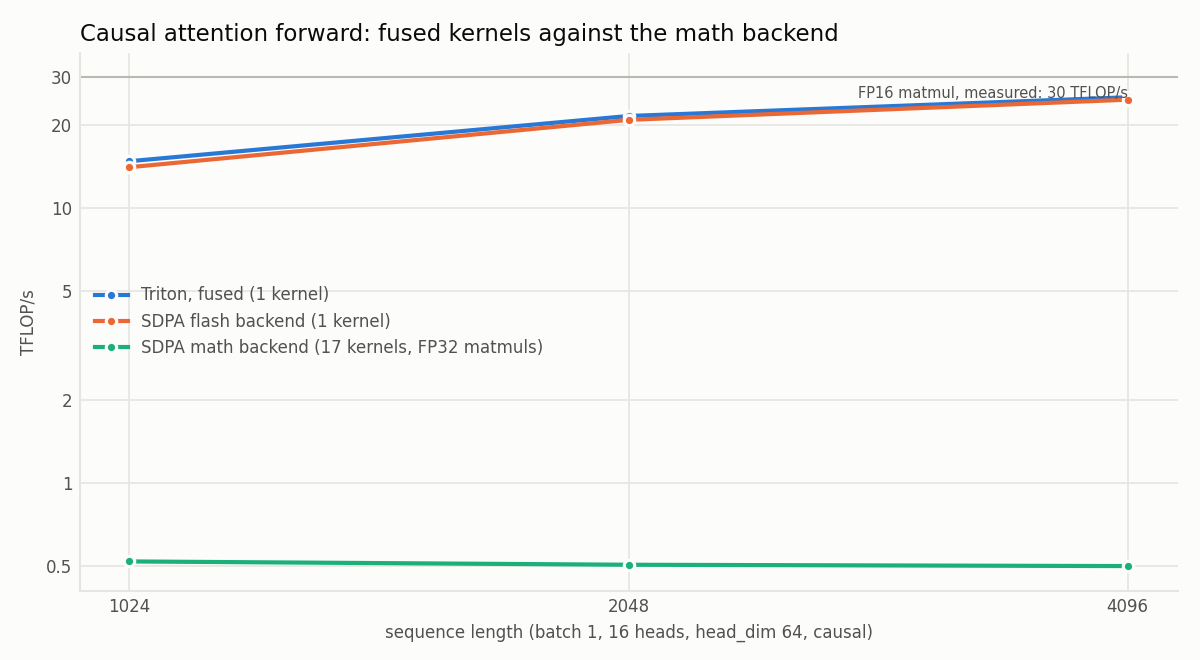
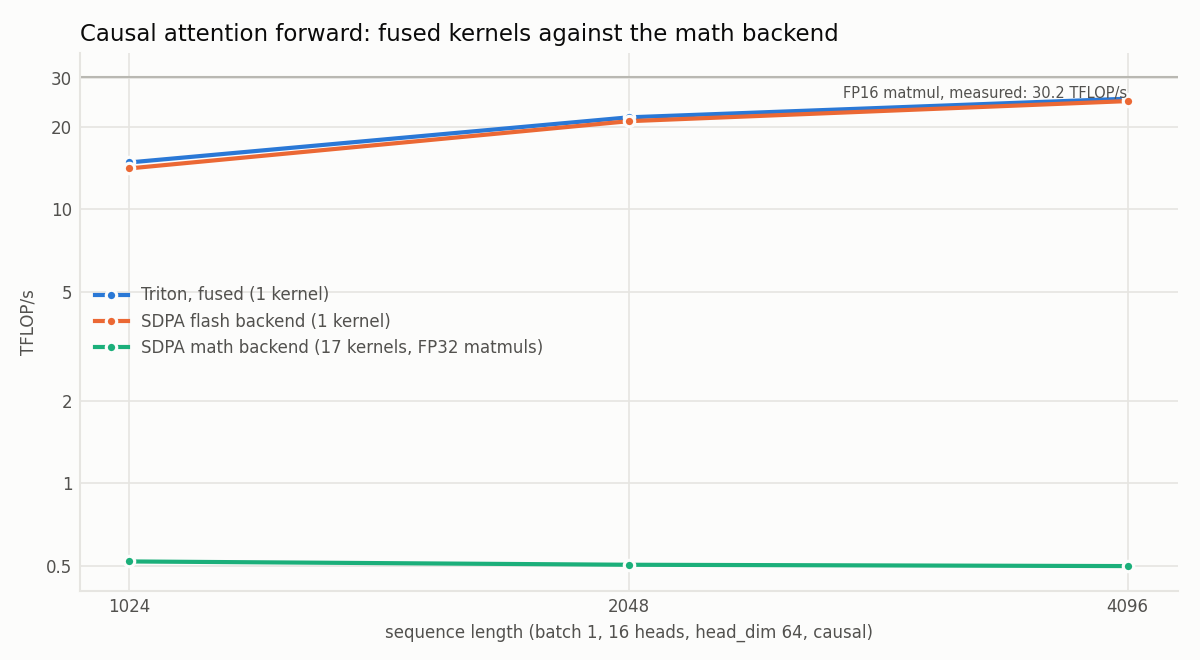
Source the FP16 ceiling and the reproduction figures from results/

Changed region(s): [[0.0925, 0.1212, 0.9558, 0.2727], [0.0308, 0.303, 0.0617, 0.3333], [0.0308, 0.1818, 0.0617, 0.2121]]

diff --git a/profiling/plot.py b/profiling/plot.py
@@ -246,7 +246,7 @@ def plot_triton(rows, roof_gbs, out, op):
     return means
 
 
-ATTENTION_FP16_ROOF = 29.84  # TFLOP/s, torch.matmul FP16 at 8192^3 (worklog)
+ATTENTION_FP16_ROOF = 30.21  # TFLOP/s, gemm_f16 row of roofline.csv
 
 
 def plot_attention(rows, out):
@@ -271,7 +271,7 @@ def plot_attention(rows, out):
                 markeredgecolor=SURFACE, markeredgewidth=1.5, label=label, zorder=3)
     ax.axhline(ATTENTION_FP16_ROOF, color=REF, linewidth=1, zorder=1)
     ax.text(4096, ATTENTION_FP16_ROOF * 0.93,
-            f"FP16 matmul, measured: {ATTENTION_FP16_ROOF:.0f} TFLOP/s",
+            f"FP16 matmul, measured: {ATTENTION_FP16_ROOF:.1f} TFLOP/s",
             fontsize=7, color=TEXT2, ha="right", va="top")
     ax.set_xscale("log", base=2)
     ax.set_yscale("log")

diff --git a/docs/optimization-log.md b/docs/optimization-log.md
@@ -418,6 +418,7 @@ bytes loaded plus bytes stored, the same accounting the profiler uses.
   | `triad_f4` | 34.4 GFLOP/s at 206.3 GB/s, exactly 1/6 of its traffic | on the slanted roof - held |
   | ridge | **63.0 FLOP/byte** | about 60 - held |
   | `copy_f1` | 213.0 GB/s, 6% *faster* than float4 | half or less - wrong |
+  | `gemm_f16` (added later, for the attention kernel) | **30.2 TFLOP/s** cuBLAS FP16 with FP32 accumulation at 8192^3 | not predicted |
   | `fma_f1` | 11.24 TFLOP/s, 0.89 of float4 | half to a third - wrong |
 
 - **What the two misses say**: for sequential access, one float per
@@ -913,8 +914,9 @@ bytes loaded plus bytes stored, the same accounting the profiler uses.
   and each new block rescales what is already accumulated. Unlike the
   operators above, this one is compute-bound and uses tensor cores through
   `tl.dot`, so the reference ceiling is FP16, not the project's FP32 roof:
-  `torch.matmul` in FP16 with FP32 accumulation reaches **29.8 TFLOP/s**
-  measured on this part (12.63 TFLOP/s is the FP32 figure).
+  cuBLAS FP16 with FP32 accumulation reaches **30.2 TFLOP/s** measured on this
+  part by the `gemm_f16` benchmark of the roofline program (12.63 TFLOP/s is
+  the FP32 figure).
 - **Implementation**: forward only, causal, FP16 in with FP32 accumulation,
   head_dim 64 or 128, one program per 64 queries walking 64 keys at a time
   (a bounded search over 64x32, 64x64, 128x64 and 128x128 at seq 2048 chose
@@ -936,12 +938,12 @@ bytes loaded plus bytes stored, the same accounting the profiler uses.
   because the official kernel is far more tuned; math/Triton 3.5-5.
 - **Measured** (`triton_attention.csv`, tag `triton-final`, batch 1, 16 heads):
 
-  | seq | head_dim | Triton ms | TFLOP/s (% of 29.8) | flash / Triton | math / Triton |
+  | seq | head_dim | Triton ms | TFLOP/s (% of 30.2) | flash / Triton | math / Triton |
   |---|---|---|---|---|---|
-  | 1024 | 64 | 0.145 | 14.8 (50%) | **1.05** | 28.7 |
+  | 1024 | 64 | 0.145 | 14.8 (49%) | **1.05** | 28.7 |
   | 2048 | 64 | 0.398 | 21.6 (72%) | **1.03** | 42.9 |
-  | 4096 | 64 | 1.360 | 25.3 (85%) | **1.02** | 50.6 |
-  | 2048 | 128 | 1.000 | 17.2 (58%) | 0.71 | 18.9 |
+  | 4096 | 64 | 1.360 | 25.3 (84%) | **1.02** | 50.6 |
+  | 2048 | 128 | 1.000 | 17.2 (57%) | 0.71 | 18.9 |
 
   ![Attention throughput against sequence length](img/attention.png)
 
@@ -963,6 +965,6 @@ bytes loaded plus bytes stored, the same accounting the profiler uses.
     It does more than that: it upcasts to FP32 and runs `ampere_sgemm` instead
     of tensor cores, builds and applies the causal mask in separate passes,
     and converts back. The materialisation is only part of the cost.
-  - Throughput rises with sequence length (50% of the FP16 ceiling at 1024,
-    85% at 4096): the causal loop's work grows as seq^2 while the fixed costs
+  - Throughput rises with sequence length (49% of the FP16 ceiling at 1024,
+    84% at 4096): the causal loop's work grows as seq^2 while the fixed costs
     do not.

diff --git a/README.md b/README.md
@@ -50,11 +50,11 @@ make triton-profile IMPL=eager # ncu report for one implementation (TSHAPE=4096x
 `scripts/install_cuda_wsl.sh` installs the CUDA toolkit inside WSL2 if needed.
 
 Reproducing the published numbers: `make test` and the operator test targets
-pass from a clean checkout, and `make bench` reproduces the ladder within
-about 1% when the part is cooled (a rerun of K0/K7/K8 gave 9102.0, 8049.3 and
-7946.2 GFLOP/s against the published 9115.1, 8041.9 and 7845.6 - K8's
-published figure is the mean of an early and a late slot, and a single-slot
-rerun sits above it).
+pass from a clean checkout, and a cooled rerun of K0/K7/K8 in the same
+`K0, K7, K8, K8, K7` order is within 2% of the published ladder - 8994.0 for
+cuBLAS (inside its band), 7912.3 for K7 (-1.6%) and 7855.4 for K8 (+0.1%),
+with the same-run K8/K7 ratio at 0.993 against the published 0.994. Those
+rows carry the tag `repro-v1.0` in `results/rtx4060-laptop/gemm_4096.csv`.
 The Python environment is pinned in `requirements-lock.txt`. The torch wheel
 is built for sm_86 and newer major architectures but not for sm_89
 specifically; it runs on this part through same-major compatibility, which
@@ -83,7 +83,9 @@ The baseline itself was measured four times (rows 2, 8, 9, 10): 9115.1,
 range, falling monotonically as the part heats from 75 to 82 C and its settled
 clock drops from 2415 to 2346 MHz. Percentages above carry that uncertainty.
 An earlier baseline taken with the host power configuration set wrong came out
-26.2% lower, which is why the enforced power limit is recorded in every row.
+at 7151.8 GFLOP/s - 20.8% under this median, or equivalently the corrected
+setting is 26.2% above it - which is why the enforced power limit is recorded
+in every row.
 
 K6 and K7 are medians of three runs after a cooldown, each run measuring K0,
 K6 and K7 together (0.43% and 0.57% ranges); K6's ratio to K5 spans two runs
@@ -253,8 +255,9 @@ recurrence is what "online softmax" is for, and unlike the row-wise softmax
 above, here it is necessary: a row of scores is produced a block at a time.
 
 This kernel is compute-bound and uses tensor cores, so its ceiling is the
-measured FP16 matmul throughput, 29.8 TFLOP/s, not the FP32 roof. It reaches
-**25.3 TFLOP/s at seq 4096** (85% of that), **ties PyTorch's flash backend**
+measured FP16 matmul throughput, 30.2 TFLOP/s (the `gemm_f16` row of
+`roofline.csv`), not the FP32 roof. It reaches **25.3 TFLOP/s at seq 4096**
+(84% of that), **ties PyTorch's flash backend**
 at head_dim 64 (1.02-1.05x) and is 19-51x faster than the math backend. At
 head_dim 128 the flash backend is 1.4x ahead. The math backend's cost is not
 only the materialisation: it upcasts to FP32 and runs `ampere_sgemm` rather

diff --git a/docs/design.md b/docs/design.md
@@ -236,4 +236,5 @@ kernel. Acceptance is therefore the Frobenius error against the FP32 reference
 backend, which produces output within one FP16 ulp of this kernel.
 
 Being compute-bound, this kernel is reported against a measured FP16 matmul
-ceiling (29.8 TFLOP/s) rather than the FP32 roof.
+ceiling - the `gemm_f16` benchmark of the roofline program, cuBLAS FP16 with
+FP32 accumulation at 8192^3, 30.2 TFLOP/s - rather than the FP32 roof.
